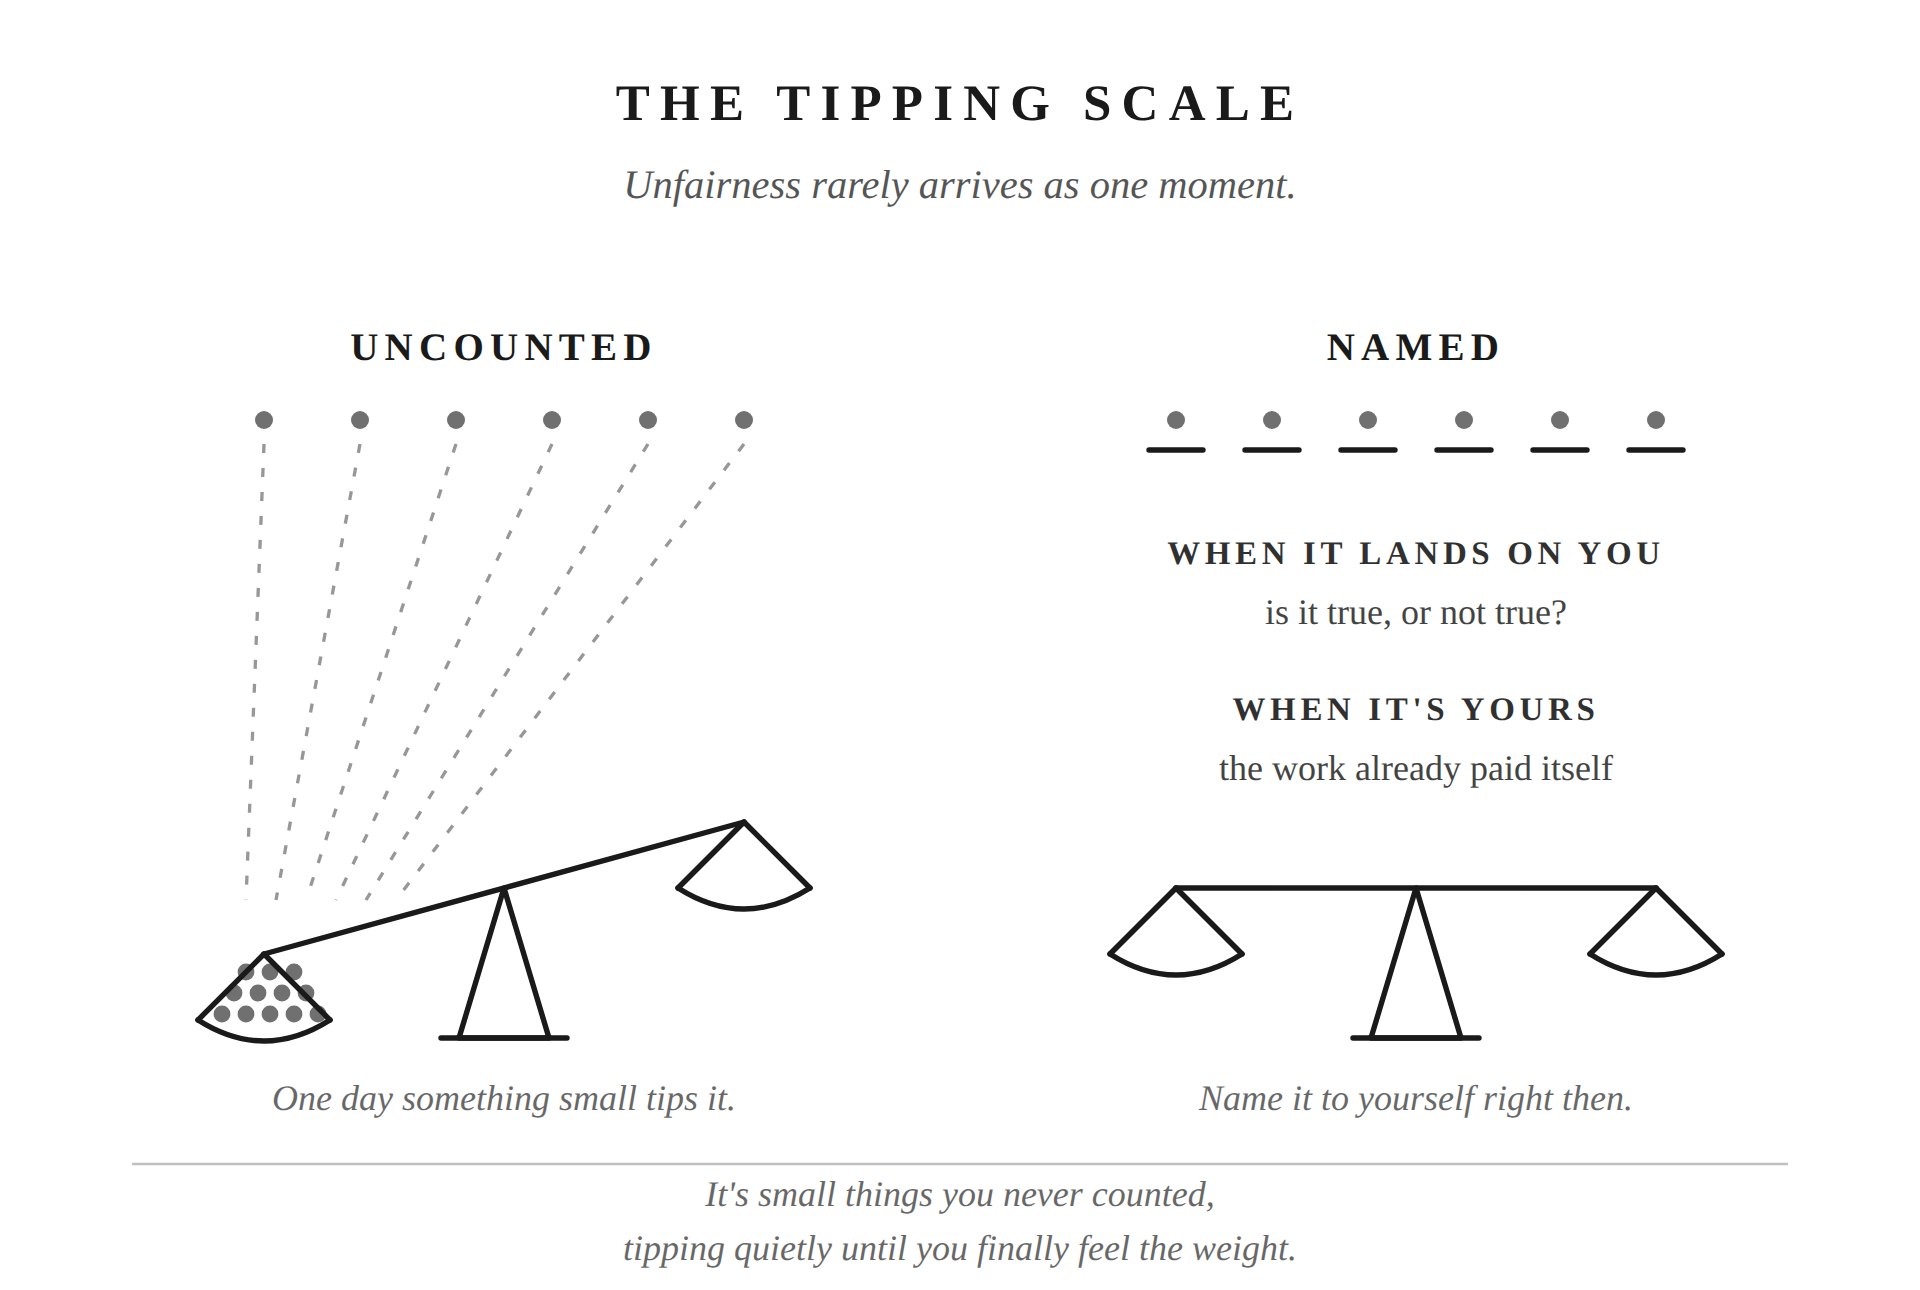
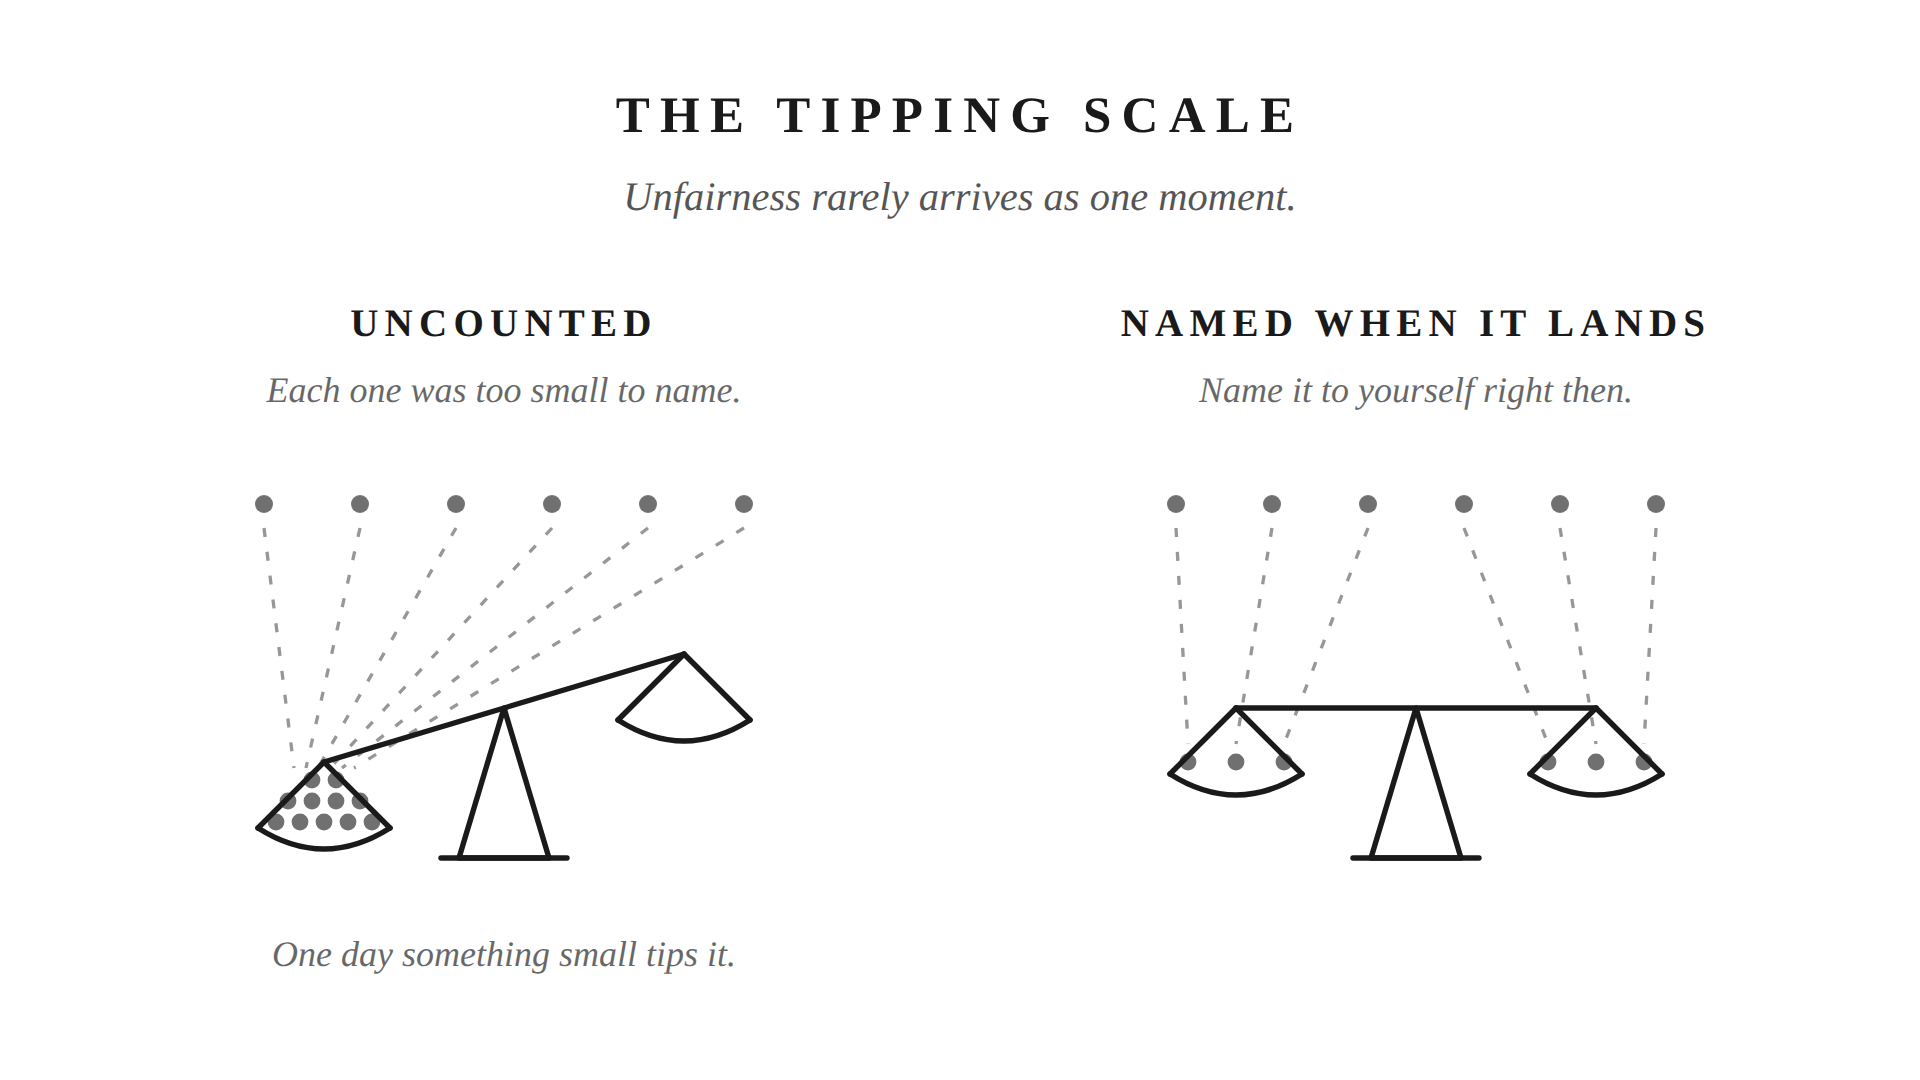
Designer: Ch8 revised from the Panel's read (Lesson blocks cut, weights land in the pans); checked, 11 rows ok
Claude-Session: https://claude.ai/code/session_01AGHGLRftgBTeqLnoAYhBbF

diff --git a/runs/ch08/plate-notes.md b/runs/ch08/plate-notes.md
@@ -231,3 +231,99 @@ solid stroke.
 2. **The subtitle changed** from the approved plate's "The tip feels sudden. It
    never is." to the chapter's own words. If he wants the old line back it needs
    to enter the chapter first, or be recorded as an Author addition in the brief.
+
+## Round 3, revision from the Panel's read (2026-09-20 20:35)
+
+**Verdict acted on:** EDITS, from `runs/ch08/plate-read.md`. All six addressed;
+four applied as written, two applied in substance with the reason below.
+
+1. **Applied.** *WHEN IT LANDS ON YOU / is it true, or not true?* and *WHEN IT'S
+   YOURS / the work already paid itself* are off the plate. They were the Lesson,
+   and "the work already paid itself" printed above a level beam was the pick's
+   second misreading in ink. The plate now draws the Mechanism and nothing else.
+2. **Applied with one word changed.** The right header is **NAMED WHEN IT LANDS**,
+   not "NAMED AS IT LANDS": the grounded rule is that every run of three or more
+   words is the chapter's, and "as it lands" is nowhere in Ch8, while "when it
+   lands" is the chapter's own section heading. Same sense, chapter's words. The
+   practice line *Name it to yourself right then.* now sits where the cut block
+   was, directly under that header, as the right column's one gloss.
+3. **Applied.** The six underlines are gone. The right weights now fall on their
+   own short lines, straight down, three to each pan, and sit singly with space
+   between them: the weight arrives, nothing stacks. Contrast with the left, where
+   six lines funnel into one pan that already holds a pile.
+4. **Applied, by compression rather than by moving one row.** The dot rows stay
+   mirrored at the same height, because the argument is that the same things land
+   on both men; moving the left row alone would break that. Instead the whole
+   drawing is tighter (canvas 430 to 360, scales up 60px, beam span 160 to 120)
+   and each column now carries a header, a gloss and a drawing of equal mass.
+5. **Declined as written, addressed in the drawing.** The caption cannot centre on
+   the loaded pan: at 12px it is about 190px wide, so centred at the pan's x it
+   would cross the 40px left margin and fail the ink row, and it would be the only
+   centred text on that axis, which fails the alignment row. Rule wins. So the
+   mass moved to the caption instead: the beam is narrower, and the loaded pan
+   sits at x=108 rather than x=88, inside the caption's own width.
+6. **Applied.** The two-line footer is gone with its rule. The Conversation
+   sentence appears once, as the subtitle. *One day something small tips it.* is
+   the only line under the drawing, and it names what the left scale does.
+
+**Format checklist**
+
+- Every centred text on the axis or a shared column: title and subtitle x=320;
+  UNCOUNTED, its gloss and the closing caption all x=168; NAMED WHEN IT LANDS and
+  its gloss both x=472. Checker: 7 centred texts, none stray.
+- The two scales mirrored about the centre: left block 86..250, right 390..554,
+  exact mirror. Fulcrums at 168 and 472. Dot rows 88..248 and 392..552.
+- Drawing blocks centred or mirrored: checker counts 8, all paired.
+- Canvas 640 wide (640x360).
+- Caption count within the cap: 4 italic lines against a cap of 4 (subtitle, one
+  gloss per labelled element, one closing line). No room was left over, which is
+  why the right column has no bottom caption.
+- No bare `text-anchor` attribute: anchors are in `.ttl`, `.sub`, `.lblc`, `.cap`.
+- No em-dashes, no digits, no quotation, no invented number.
+- Nothing the chapter does not say: every phrase is `refined.md` or the
+  distillation. *Each one was too small to name.* is the chapter's "because each
+  one was too small to name"; *Name it to yourself right then.* is Practice 1;
+  *One day something small tips it.* is verbatim; the subtitle is the
+  Conversation sentence's first half.
+
+**Checker output, verbatim**
+
+```
+$ python3 scripts/plate_check.py runs/ch08/plate.svg --chapter 8
+
+runs/ch08/plate.svg
+  [ ok ] charset     valid UTF-8, no mojibake
+  [ ok ] geometry    no margin or collision rows
+  [ ok ] anchor-attr anchors set in classes or inline styles only
+  [ ok ] em-dash     none
+  [ ok ] digits      none
+  [ ok ] canvas      640x360
+  [ ok ] title       title 'THE TIPPING SCALE' / aria-label 'The Tipping Scale' vs Mechanism 'The Tipping Scale'
+  [ ok ] grounded    every run of three or more words is the chapter's
+  [ ok ] captions    4 italic lines against a cap of 4 (2 labels + subtitle + closing line)
+  [ ok ] alignment   7 centred texts on the axis or a shared column; 8 drawing blocks centred or mirrored
+  [ ok ] ink         no rendered ink inside the 40px margin bands (dark px {'left': 0, 'right': 0, 'top': 0, 'bottom': 0})
+```
+
+No FAIL rows, and none were fixed in between: the first render of the new layout
+passed every row.
+
+**What the render showed.** The eye goes to the loaded pan and the tipped beam
+first, then across to the level one. The pile reads as a mass of the same small
+mark the falling weights are, so the weight is plainly cumulative and plainly
+small-grained. On the right the three-and-three dots sit apart and low in the
+pans, which reads as arrived and not stacked, and the level beam is the second
+thing seen. No text block outweighs the drawing now; both columns end at the same
+height and the only remaining asymmetry is the closing caption under the left
+scale, which is where the tipping is.
+
+**For the author to rule on**
+
+1. **The right scale is level with weight in both pans.** It answers the pick's
+   second misreading (the work does not vanish when you name it), but a defensive
+   reader could read two equal pans as a score kept even with her, which is what
+   Chapter 7 took apart. The alternative is empty right pans, which the last round
+   showed reads as "nothing happened". I chose the first; it is his call.
+2. **"NAMED WHEN IT LANDS"** is the Panel's label with one word swapped to stay
+   inside the chapter's vocabulary (item 2 above). If he prefers "as it lands", it
+   needs to enter the chapter or be recorded as an Author addition in the brief.
